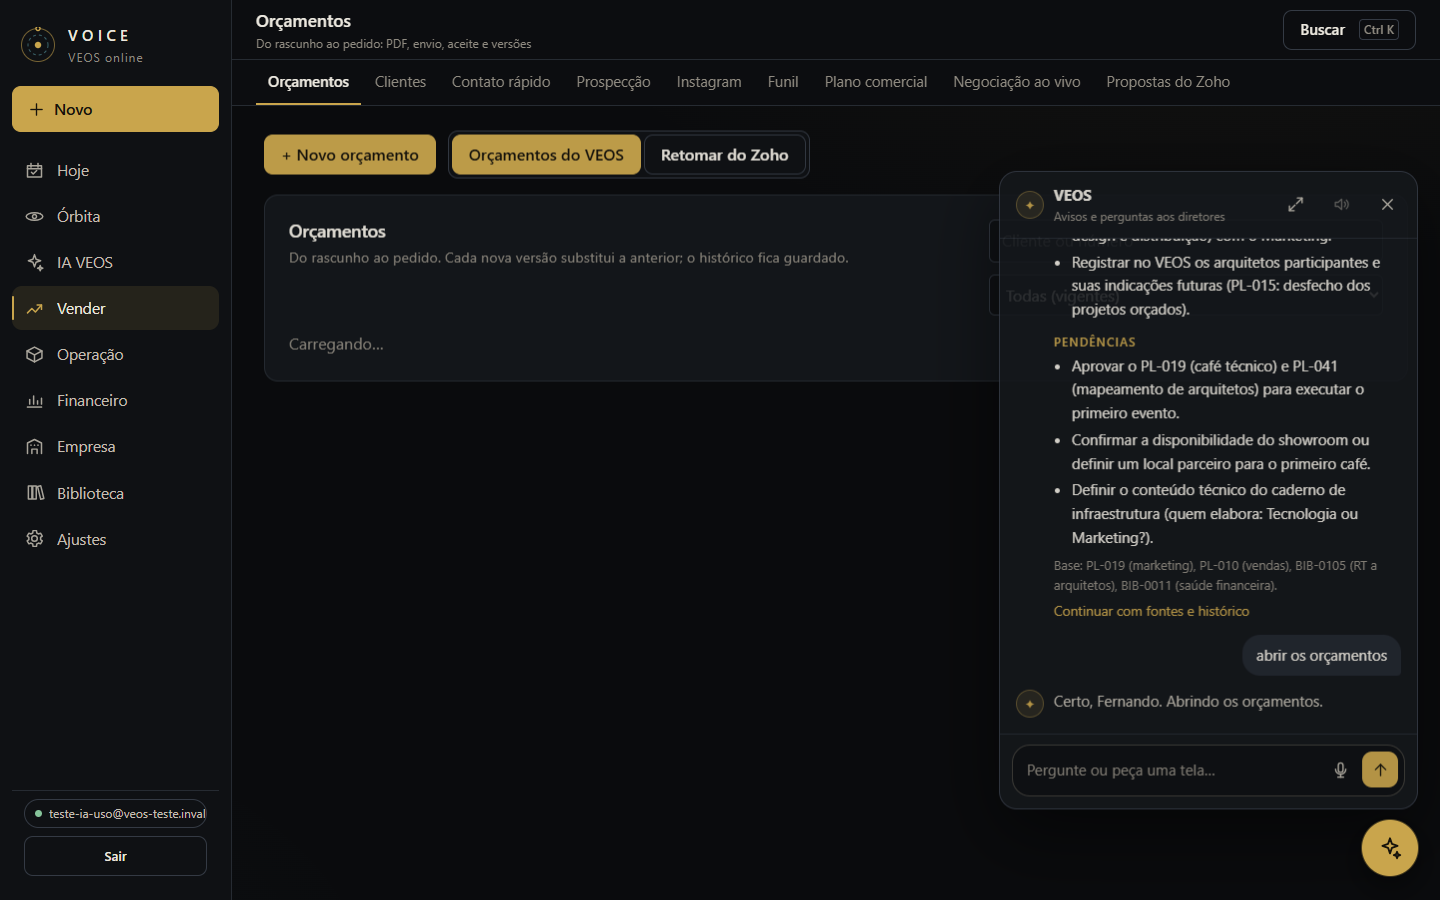
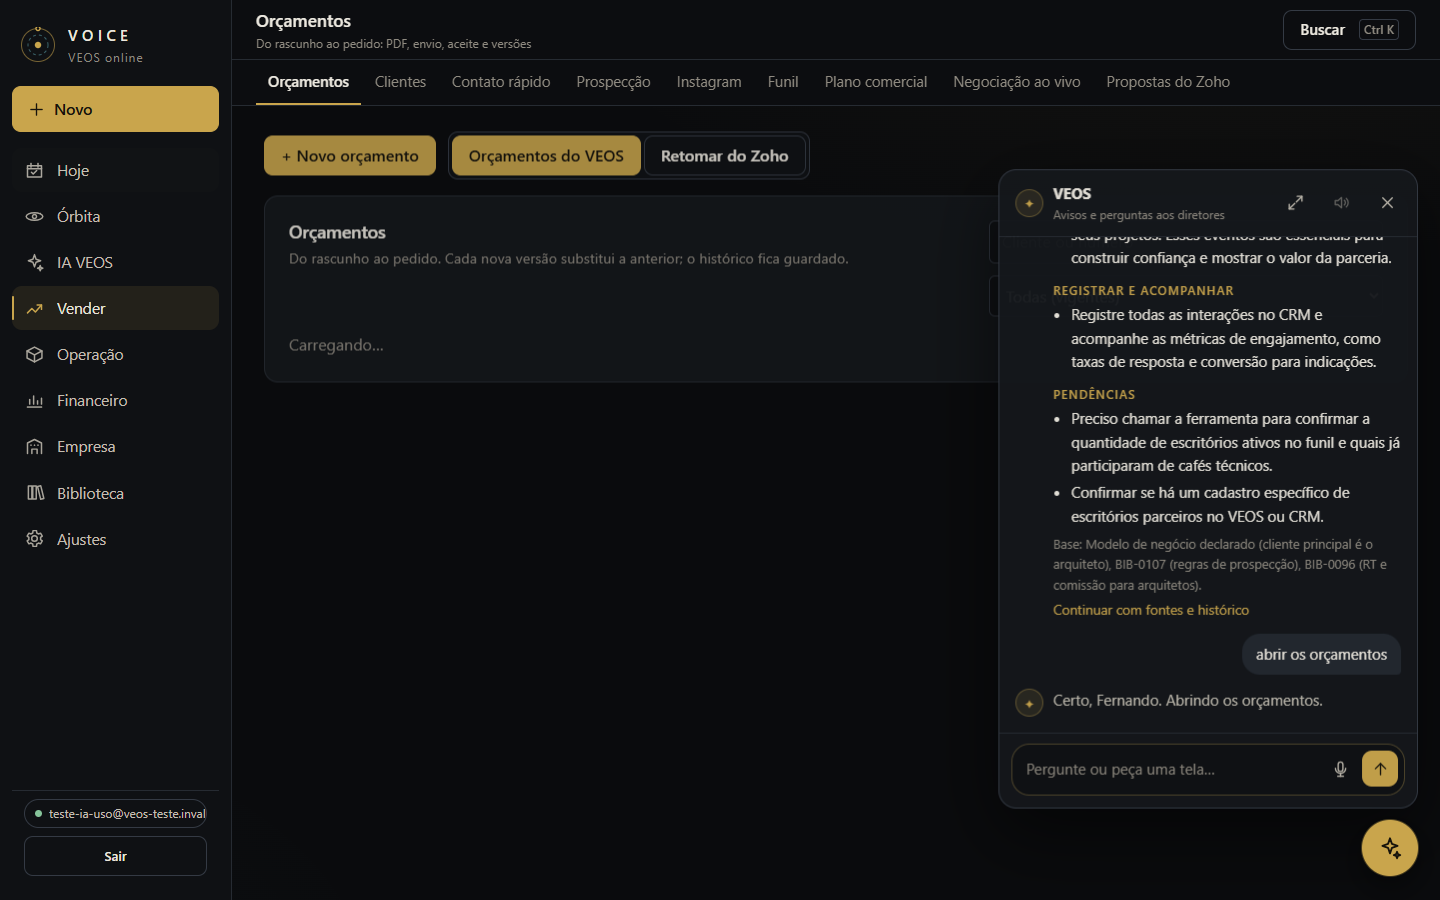
Avisos do assistente: respostas dos diretores, tarefas atrasadas e minha agenda

diff --git a/apps/web/js/ui/assistente.js b/apps/web/js/ui/assistente.js
@@ -10,6 +10,7 @@ import { api } from "../data/api.js";
 import { CATALOGO } from "../data/catalogo.js";
 import { interpretar } from "../domain/comandos.js";
 import { blocosDaResposta } from "../domain/conversa.js";
+import { avisosNovos } from "../domain/avisos.js";
 import { clear, h } from "./dom.js";
 import { icone } from "./icones.js";
 
@@ -119,6 +120,8 @@ export async function enviar(texto) {
       else throw e;
     }
     conversas[setor] = res.conversa_id ?? res.id;
+    // a resposta desta pergunta aparece aqui mesmo: nao repetir como aviso depois
+    gravar(K.vistos, [...ler(K.vistos, []), `p:${res.id}`].slice(-500));
     gravar(K.conversas, conversas);
     if (res.ia !== "analisando") {
       adicionar({ de: "veos", texto: "Sem motor de IA ligado no servidor agora: a pergunta ficou na fila do Claude Code e a resposta aparece em Perguntar aos diretores.", href: "#/diretores" });
@@ -143,16 +146,15 @@ export async function enviar(texto) {
 let timerAvisos = null;
 async function conferirAvisos(primeira) {
   try {
-    const { alertas } = await api.radar();
+    const [{ alertas, tarefas }, resp] = await Promise.all([api.radar(), api.perguntasDiretores({ estado: "respondida", limite: 15 }).catch(() => ({ perguntas: [] }))]);
     const vistos = new Set(ler(K.vistos, []));
-    const graves = alertas.filter((a) => ["CRITICO", "ALTO"].includes(a.severidade));
-    const novos = graves.filter((a) => !vistos.has(a.chave ?? a.id));
-    for (const a of graves) vistos.add(a.chave ?? a.id);
+    const hoje = new Date(Date.now() - 3 * 3600_000).toISOString().slice(0, 10);
+    const todos = avisosNovos({ alertas, tarefas, perguntas: resp.perguntas, hoje, euId: eu?.user_id ?? null });
+    const novos = todos.filter((a) => !vistos.has(a.chave));
+    for (const a of todos) vistos.add(a.chave);
     gravar(K.vistos, [...vistos].slice(-500));
     if (primeira && msgs.length) return; // primeira abertura com historico: so marca
-    for (const a of novos.slice(0, primeira ? 3 : 5)) {
-      adicionar({ de: "aviso", setor: a.setor_id, texto: `${a.severidade === "CRITICO" ? "Crítico" : "Alerta"} · ${SIGLA[a.setor_id] ?? a.setor_id}: ${a.titulo}`, href: `#/setor/${a.setor_id}` }, true);
-    }
+    for (const a of novos.slice(0, primeira ? 3 : 5)) adicionar({ de: "aviso", setor: a.setor_id, texto: a.texto, href: a.href }, true);
   } catch { /* sem rede: proximo ciclo */ }
 }
 

diff --git a/supabase/functions/_shared/dominio/avisos.js b/supabase/functions/_shared/dominio/avisos.js
@@ -1,0 +1,32 @@
+// GERADO por scripts/gerar-catalogo.mjs a partir de apps/web/js/domain/avisos.js - nao editar a mao.
+// AVISOS DO ASSISTENTE (sem DOM): decide o que entra como aviso novo no chat flutuante.
+//  - alertas ALTO/CRITICO do Radar;
+//  - tarefas atrasadas e as tarefas da MINHA agenda para hoje;
+//  - respostas dos diretores a perguntas feitas por mim em "Perguntar aos diretores" (as feitas pelo
+//    chat ja aparecem na conversa; o assistente marca o id delas como vistas).
+// Cada aviso tem uma `chave` estavel; quem chama guarda as chaves ja vistas para nao repetir.
+
+const SIGLAS = { financas: "CFO", vendas: "CSO", marketing: "CMO", operacoes: "COO", tecnologia: "CIO", posvenda: "CXO", pessoas: "CHRO", secretaria: "SEC", direcao: "CEO" };
+const sigla = (s) => SIGLAS[s] ?? s;
+const resumo = (t, n = 140) => { const s = String(t ?? "").replace(/\s+/g, " ").trim(); return s.length > n ? `${s.slice(0, n - 1)}…` : s; };
+
+export function avisosNovos({ alertas = [], tarefas = [], perguntas = [], vistos = new Set(), hoje, euId = null, agora = Date.now() } = {}) {
+  const lista = [];
+  for (const a of alertas) {
+    if (!["CRITICO", "ALTO"].includes(a.severidade)) continue;
+    lista.push({ chave: a.chave ?? a.id, tipo: "alerta", texto: `${a.severidade === "CRITICO" ? "Crítico" : "Alerta"} · ${sigla(a.setor_id)}: ${a.titulo}`, href: `#/setor/${a.setor_id}` });
+  }
+  for (const t of tarefas) {
+    if (!t.prazo) continue;
+    const minha = euId && t.responsavel === euId;
+    if (t.prazo < hoje) lista.push({ chave: `t:${t.id}:atrasada`, tipo: "tarefa", texto: `Tarefa atrasada · ${sigla(t.setor_id)}: ${resumo(t.titulo)}`, href: `#/setor/${t.setor_id}` });
+    else if (minha && t.prazo === hoje) lista.push({ chave: `t:${t.id}:hoje`, tipo: "tarefa", texto: `Na sua agenda de hoje: ${resumo(t.titulo)}`, href: "#/hoje" });
+  }
+  for (const p of perguntas) {
+    if (p.estado !== "respondida" || !euId || p.autor !== euId) continue;
+    const r = (p.respostas ?? []).slice(-1)[0];
+    if (!r || agora - Date.parse(r.em) > 3 * 86_400_000) continue;
+    lista.push({ chave: `p:${p.id}`, tipo: "resposta", texto: `O ${sigla(p.setor_id)} respondeu: «${resumo(p.pergunta, 80)}»`, href: `#/diretores?conversa=${p.conversa_id ?? p.id}` });
+  }
+  return lista.filter((x) => !vistos.has(x.chave));
+}

diff --git a/apps/web/js/domain/avisos.js b/apps/web/js/domain/avisos.js
@@ -1,0 +1,31 @@
+// AVISOS DO ASSISTENTE (sem DOM): decide o que entra como aviso novo no chat flutuante.
+//  - alertas ALTO/CRITICO do Radar;
+//  - tarefas atrasadas e as tarefas da MINHA agenda para hoje;
+//  - respostas dos diretores a perguntas feitas por mim em "Perguntar aos diretores" (as feitas pelo
+//    chat ja aparecem na conversa; o assistente marca o id delas como vistas).
+// Cada aviso tem uma `chave` estavel; quem chama guarda as chaves ja vistas para nao repetir.
+
+const SIGLAS = { financas: "CFO", vendas: "CSO", marketing: "CMO", operacoes: "COO", tecnologia: "CIO", posvenda: "CXO", pessoas: "CHRO", secretaria: "SEC", direcao: "CEO" };
+const sigla = (s) => SIGLAS[s] ?? s;
+const resumo = (t, n = 140) => { const s = String(t ?? "").replace(/\s+/g, " ").trim(); return s.length > n ? `${s.slice(0, n - 1)}…` : s; };
+
+export function avisosNovos({ alertas = [], tarefas = [], perguntas = [], vistos = new Set(), hoje, euId = null, agora = Date.now() } = {}) {
+  const lista = [];
+  for (const a of alertas) {
+    if (!["CRITICO", "ALTO"].includes(a.severidade)) continue;
+    lista.push({ chave: a.chave ?? a.id, tipo: "alerta", texto: `${a.severidade === "CRITICO" ? "Crítico" : "Alerta"} · ${sigla(a.setor_id)}: ${a.titulo}`, href: `#/setor/${a.setor_id}` });
+  }
+  for (const t of tarefas) {
+    if (!t.prazo) continue;
+    const minha = euId && t.responsavel === euId;
+    if (t.prazo < hoje) lista.push({ chave: `t:${t.id}:atrasada`, tipo: "tarefa", texto: `Tarefa atrasada · ${sigla(t.setor_id)}: ${resumo(t.titulo)}`, href: `#/setor/${t.setor_id}` });
+    else if (minha && t.prazo === hoje) lista.push({ chave: `t:${t.id}:hoje`, tipo: "tarefa", texto: `Na sua agenda de hoje: ${resumo(t.titulo)}`, href: "#/hoje" });
+  }
+  for (const p of perguntas) {
+    if (p.estado !== "respondida" || !euId || p.autor !== euId) continue;
+    const r = (p.respostas ?? []).slice(-1)[0];
+    if (!r || agora - Date.parse(r.em) > 3 * 86_400_000) continue;
+    lista.push({ chave: `p:${p.id}`, tipo: "resposta", texto: `O ${sigla(p.setor_id)} respondeu: «${resumo(p.pergunta, 80)}»`, href: `#/diretores?conversa=${p.conversa_id ?? p.id}` });
+  }
+  return lista.filter((x) => !vistos.has(x.chave));
+}

diff --git a/supabase/functions/api/diretores.ts b/supabase/functions/api/diretores.ts
@@ -31,7 +31,7 @@ export async function rotearDiretores(req: Request, partes: string[], eu: Membro
     const setor = /^[a-z]{3,12}$/.test(q.get("setor") ?? "") ? `&setor_id=eq.${q.get("setor")}` : "";
     const visivel = eu.papel === "direcao" ? "" : `&or=(autor.eq.${eu.user_id},setor_id.in.(${acessiveis(eu).join(",")}))`;
     const [perguntas, membros] = await Promise.all([
-      servico(`/rest/v1/perguntas_diretores?select=*,respostas:respostas_diretores(id,resposta,procedimento,fontes,motor,em),execucoes:ia_execucoes(provedor,modelo,ok,passos,ms,erro,em)${est}${setor}${visivel}${await filtroAutor(eu, "autor")}&order=criada_em.desc&limit=200`),
+      servico(`/rest/v1/perguntas_diretores?select=*,respostas:respostas_diretores(id,resposta,procedimento,fontes,motor,em),execucoes:ia_execucoes(provedor,modelo,ok,passos,ms,erro,em)${est}${setor}${visivel}${await filtroAutor(eu, "autor")}&order=criada_em.desc&limit=${Math.max(1, Math.min(200, Number(q.get("limite")) || 200))}`),
       servico("/rest/v1/membros?select=user_id,nome"),
     ]);
     const nome = new Map(membros.map((m: { user_id: string; nome: string }) => [m.user_id, m.nome]));
